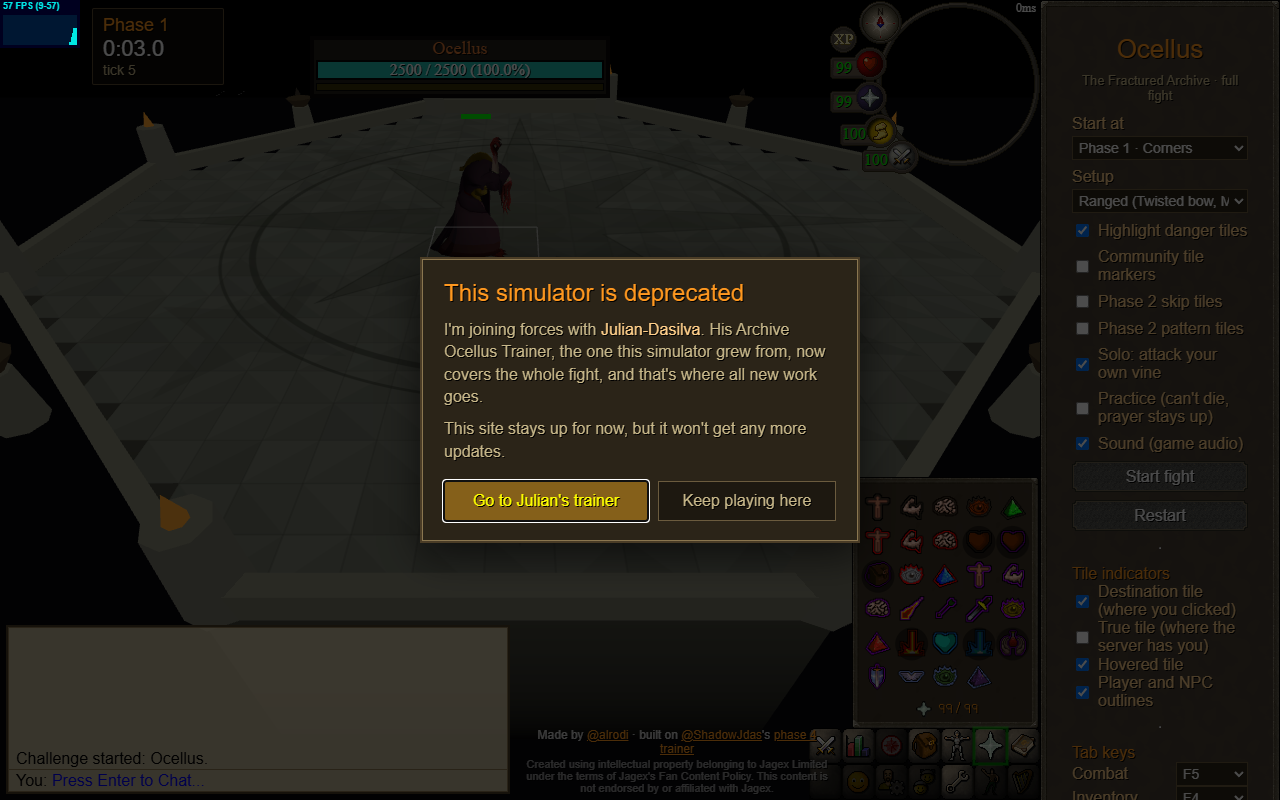
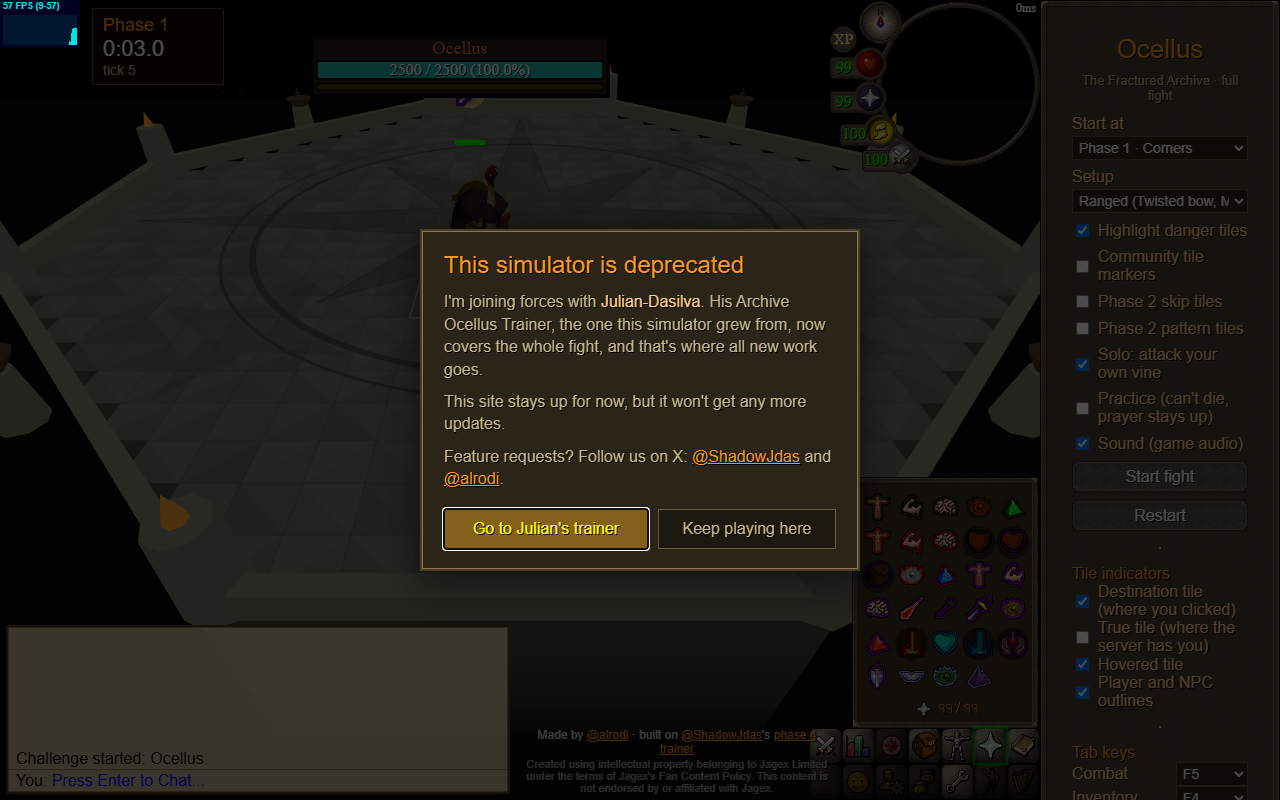
feat: point feature requests to us on X from the deprecation notice

Changed region(s): [[0.3125, 0.2812, 0.6875, 0.7188], [0.3438, 0.125, 0.4062, 0.25]]

diff --git a/src/index.html b/src/index.html
@@ -443,6 +443,15 @@
         color: #ffcf8a;
       }
 
+      .deprecation-follow a {
+        color: #ff981f;
+      }
+
+      .deprecation-follow a:hover,
+      .deprecation-follow a:focus-visible {
+        color: #ffff00;
+      }
+
       .deprecation-actions {
         display: flex;
         flex-wrap: wrap;
@@ -523,6 +532,11 @@
           grew from, now covers the whole fight, and that's where all new work goes.
         </p>
         <p>This site stays up for now, but it won't get any more updates.</p>
+        <p class="deprecation-follow">
+          Feature requests? Follow us on X:
+          <a href="https://x.com/ShadowJdas" target="_blank" rel="noopener">@ShadowJdas</a> and
+          <a href="https://x.com/alrodi" target="_blank" rel="noopener">@alrodi</a>.
+        </p>
         <div class="deprecation-actions">
           <a id="deprecation_go" href="https://archive-ocellus-trainer.raid-sims.workers.dev">Go to Julian's trainer</a>
           <button id="deprecation_stay" type="button">Keep playing here</button>

diff --git a/README.md b/README.md
@@ -19,6 +19,7 @@
 > [Archive Ocellus Trainer](https://archive-ocellus-trainer.raid-sims.workers.dev)
 > ([source](https://github.com/Julian-Dasilva/ArchiveOcellusTrainer)) now covers the whole fight, and that's where new
 > work goes. ocellus-sim.pages.dev stays up for now but won't get updates.
+> For feature requests, follow us on X: [@ShadowJdas](https://x.com/ShadowJdas) and [@alrodi](https://x.com/alrodi).
 
 Ocellus is drawn from the game's own models, animations, effects and sounds, extracted from the OSRS cache at build
 time. His attacks follow a tick-by-tick analysis of recorded kills. No download and no account: open the link and
